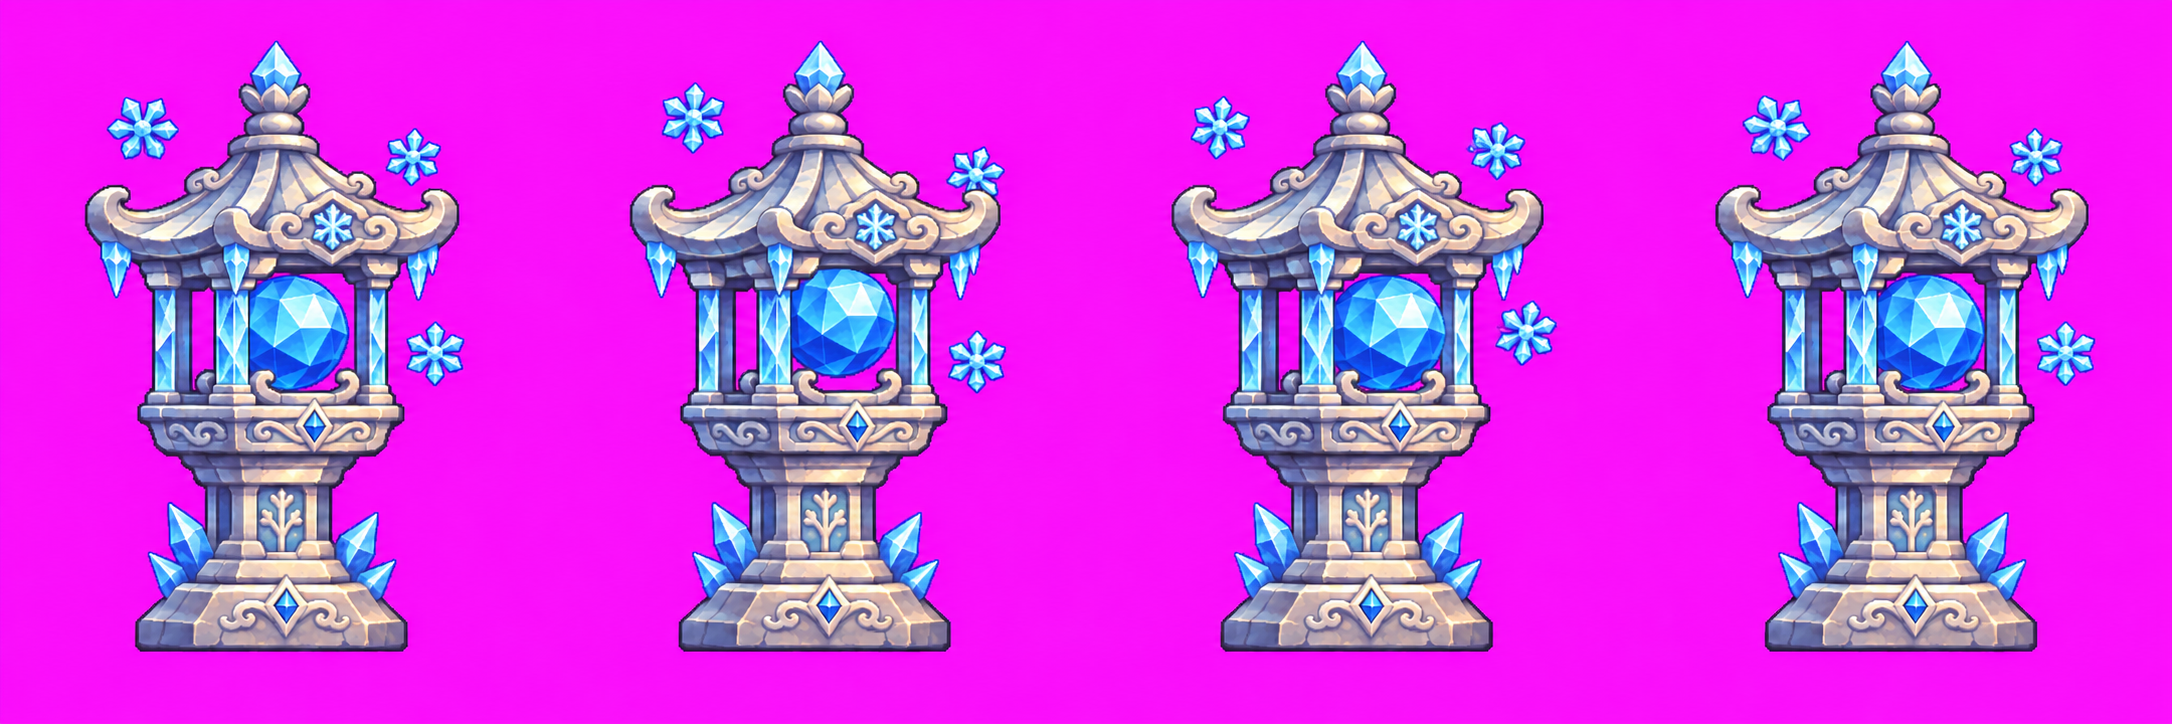
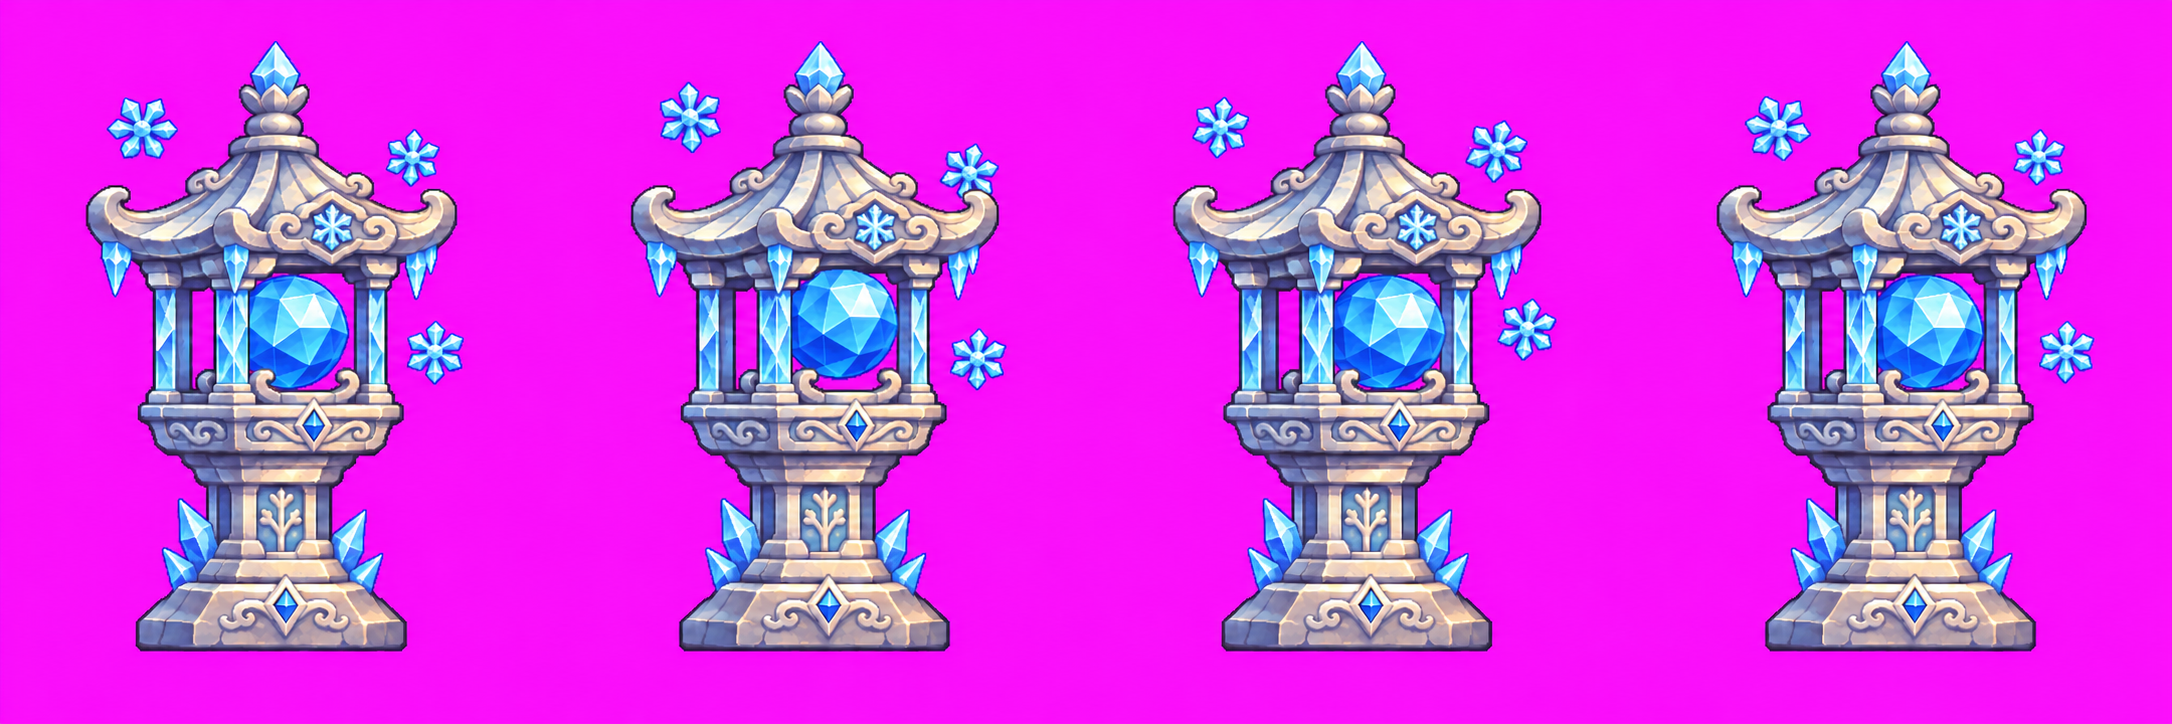
art(batch2): revise locked proportions of frost__t3__attack.png

diff --git a/idle-td-art/batch2/ORDER-B2.md b/idle-td-art/batch2/ORDER-B2.md
@@ -123,10 +123,10 @@ Redraw image B frame by frame using the tier <N> design from image A: EXACTLY th
 | `images/furnace__t3__attack.png` | 2172×724 | 4 | 09:35 返工修正版：金色爐身固定，只有爐蓋起落與龍口微縮；第 4 格回到站立圖微浮蓋位置。 |
 | `images/bell__t1__attack.png` | 2172×724 | 4 | 09:35 返工修正版：重對木架高寬與底座比例；鐘槌敲擊、鐘身擺動，第 4 格回原站立。 |
 | `images/frost__t2__attack.png` | 2172×724 | 4 | 09:35 返工修正版：保留大藍晶體，四格只移位；冰柱擺動、塔身固定，第 4 格回到站立。 |
-| `images/frost__t3__attack.png` | 2172×724 | 4 | 09:35 返工修正版：大水晶球保持四格同尺寸，只做左移、上浮、右推、回位；雪花移動，第 4 格回到站立。 |
 | `images/crossbow__t1__attack.png` | 2172×724 | 4 | 10:20 返工修正版：依站立重新生成固定木架、塔腳與平台；只動弩弦、弩身和旗子。 |
 | `images/bell__t3__attack.png` | 2172×724 | 4 | 10:20 返工修正版：降低偏高塔身、保留底座與塔寬；魚槌後擺、撞鐘、回彈及復位，固定亭架。 |
 | `images/talisman__t1__attack.png` | 2172×724 | 4 | 10:20 返工修正版：加寬偏窄木柱，底座、總高與桌面固定；符紙四格維持不同飄動。 |
+| `images/frost__t3__attack.png` | 2172×724 | 4 | 10:30 再修訂：底座四枚固定冰晶向內收窄、保留高度與四格一致；球體維持已核對大小，只移球與懸浮雪花；待 Claude 複核。 |
 
 原檔 SHA-256：
 
@@ -156,10 +156,10 @@ Redraw image B frame by frame using the tier <N> design from image A: EXACTLY th
[8 lines of base64/hex data omitted]
 
 ## 意見與待辦
 
